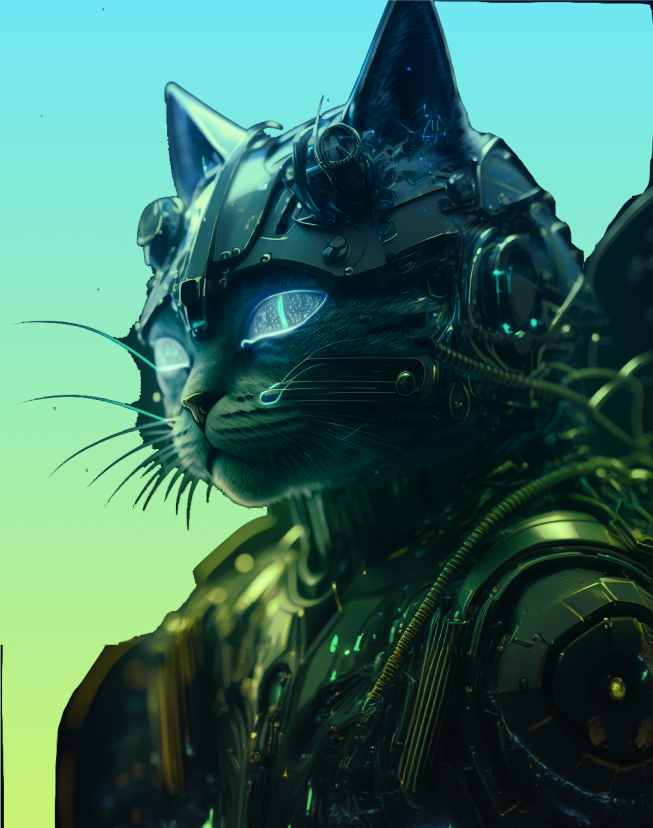
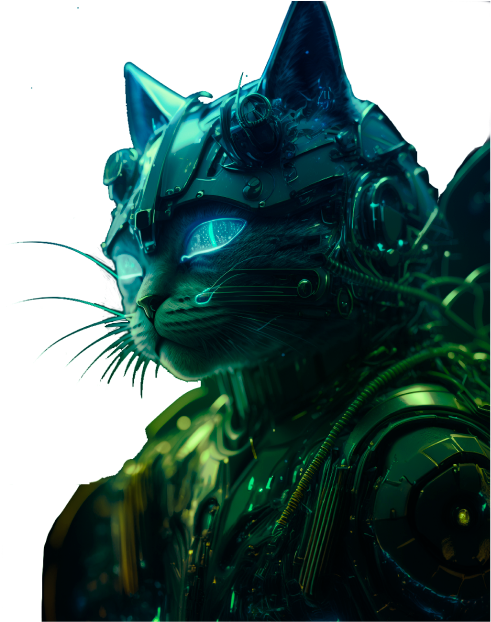
added new photos

diff --git a/build/index.html b/build/index.html
@@ -164,7 +164,12 @@
       </div>
 
       <div class="info__picture">
-        <img class="info__pic" width="653" height="828" src="./img/info/info-1.png" alt="pic">
+        <picture>
+          <source srcset="./img/info/info-1.webp 1x, ./img/info/info-1@2x.webp 2x" type="image/webp">
+          <source srcset="./img/info/info-1.png 1x, ./img/info/info-1@2x.png 2x" type="image/png">
+          <img class="info__pic" width="653" height="828" src="./img/info/info-1.png" srcset="./img/info/info-1@2x.png"
+            alt="Alt">
+        </picture>
       </div>
     </div>
   </div>
@@ -506,7 +511,12 @@
       </div>
 
       <div class="info__picture">
-        <img class="info__pic" width="680" height="640" src="./img/info/info-3.png" alt="pic">
+        <picture>
+          <source srcset="./img/info/info-3.webp 1x, ./img/info/info-3@2x.webp 2x" type="image/webp">
+          <source srcset="./img/info/info-3.png 1x, ./img/info/info-3@2x.png 2x" type="image/png">
+          <img class="info__pic" width="680" height="640" src="./img/info/info-3.png" srcset="./img/info/info-3@2x.png"
+            alt="Alt">
+        </picture>
       </div>
     </div>
   </div>

diff --git a/src/html/_info-tehno.html b/src/html/_info-tehno.html
@@ -16,7 +16,12 @@
       </div>
 
       <div class="info__picture">
-        <img class="info__pic" width="680" height="640" src="./img/info/info-3.png" alt="pic">
+        <picture>
+          <source srcset="./img/info/info-3.webp 1x, ./img/info/info-3@2x.webp 2x" type="image/webp">
+          <source srcset="./img/info/info-3.png 1x, ./img/info/info-3@2x.png 2x" type="image/png">
+          <img class="info__pic" width="680" height="640" src="./img/info/info-3.png" srcset="./img/info/info-3@2x.png"
+            alt="Alt">
+        </picture>
       </div>
     </div>
   </div>

diff --git a/src/html/_info.html b/src/html/_info.html
@@ -30,7 +30,12 @@
       </div>
 
       <div class="info__picture">
-        <img class="info__pic" width="653" height="828" src="./img/info/info-1.png" alt="pic">
+        <picture>
+          <source srcset="./img/info/info-1.webp 1x, ./img/info/info-1@2x.webp 2x" type="image/webp">
+          <source srcset="./img/info/info-1.png 1x, ./img/info/info-1@2x.png 2x" type="image/png">
+          <img class="info__pic" width="653" height="828" src="./img/info/info-1.png" srcset="./img/info/info-1@2x.png"
+            alt="Alt">
+        </picture>
       </div>
     </div>
   </div>
